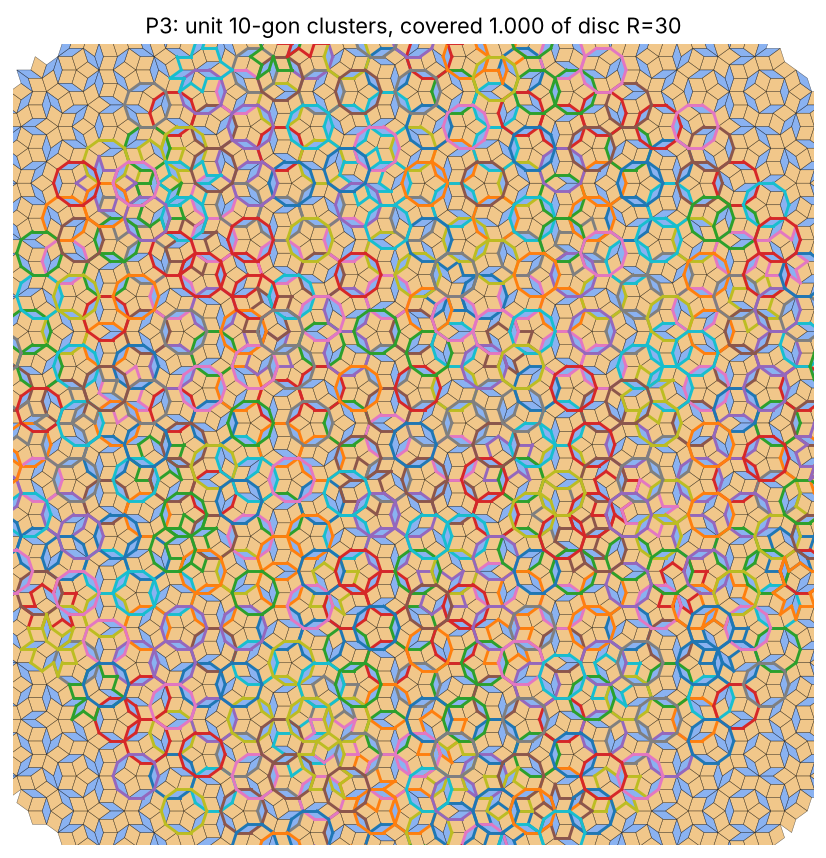
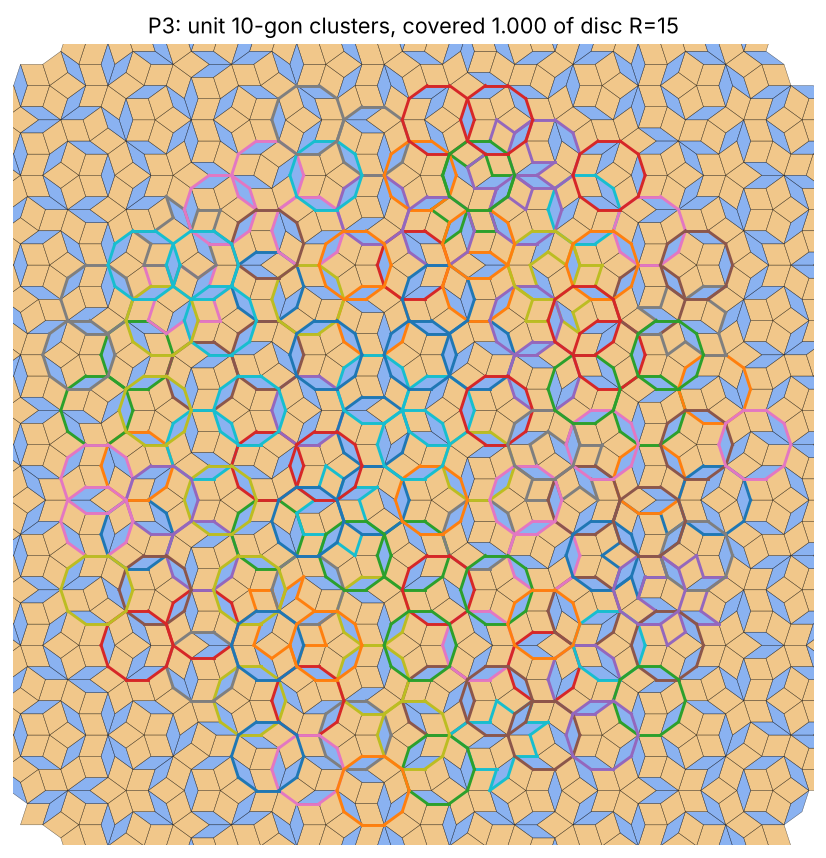
projection-first: 12-fold shield model set, Lemma A checks, partition census, n-gon covering clusters, README/RESULTS
Claude-Session: https://claude.ai/code/session_01RiPcSHvFmRW1QyE8Naq7uY

diff --git a/research/projection-first/RESULTS.md b/research/projection-first/RESULTS.md
@@ -1,0 +1,120 @@
+# Results: projection-first search (1 Nov 2026)
+
+Summary: no OPEN candidate. No shape made of whole tiles partitions any of the three quasicrystals.
+Lemma A says this must happen, and the exhaustive search for k ≤ 8 hits the obstruction at very small radius.
+Overlapping coverings by one cluster do exist (the unit regular 8-, 10- and 12-gon clusters cover AB, Penrose
+and the 12-fold shield tiling completely), but a covering with overlaps is not a monotile tiling.
+
+## 1. Generators and validation
+
+All three are cut-and-project sets with exact integer vertex coordinates (Z⁴, Z⁵/Z(1,1,1,1,1), Z⁴ = Z[ζ₁₂]).
+
+| tiling | field | checks | ratio | measured (R = 20 / 40 / 80 / 160) | exact |
+|---|---|---|---|---|---|
+| Ammann–Beenker (multigrid, Z⁴) | Q(√2) | 0 bad edges, 0 position collisions, all 6,241 vertices (R = 40) inside the octagon window (area 2+2√2) | rhombs/squares | 1.3899 / 1.4111 / 1.4110 / **1.41430** | √2 = 1.41421 (window areas: 2√2 : 2, error 2e-16) |
+| Penrose P3 (pentagrid, Σγ = 0) | Q(√5) | 0 bad edges, all 6,358 vertices (R = 40) inside their index-slice pentagons; index 2,3 : 1,4 = 2.65 (φ² = 2.618) | thick/thin | 1.5800 / 1.6209 / 1.6163 / **1.61839** | φ = 1.61803 (grid-pair densities sin 72° : sin 36°) |
+| 12-fold shield (Z⁴, dodecagon window r = 1) | Q(√3) | 0 crossing edges (R ≤ 40), faces are only unit squares, unit triangles and shields, all 4,852 shields congruent (angles 90,90,90,150,150,150) | square/shield | 1.8021 / 1.7535 / 1.7476 (R=70) / **1.7401** (R=100) | √3 (window areas, error 4e-15) |
+| | | | triangle/shield | 5.4844 / 5.4787 / 5.4809 / **5.4815** | 2+2√3 = 5.4641 |
+| | | | triangle/square | 3.0434 / 3.1244 / 3.1363 / **3.1501** | (6+2√3)/3 = 3.1547 |
+
+The exact column comes from `window_freq.py`: frequency = area of ∩ᵢ (W − uᵢ*) summed over orientations. The
+square–triangle–rhomb windows tried (dodecagon scale scan in `dodecagonal.py scan`) gave crossing edges or
+mixed faces; the clean Z⁴ model set with a regular dodecagon window is Gähler's **shield** tiling (squares,
+triangles, shields). It is the 12-fold case used below. The Stampfli/Socolar variants were not built.
+
+## 2. Lemma A, checked numerically (one line per tiling)
+
+* **AB:** rhombs/squares → √2 (irrational). Every copy of a k-tile cluster has a fixed composition (a, b), so a
+  partition would force a/b = √2. Impossible.
+* **P3:** thick/thin → φ (irrational). Same argument.
+* **Shield (12-fold):** square/shield → √3 and triangle/shield → 2+2√3 (irrational). Same argument.
+
+Companion remark (same argument, applied to splitting instead of merging): in all three tilings the prototile
+areas are rationally independent (1 : 1/√2; φ : 1; 1 : √3/4 : (3+√3)/2 shield). So no single shape S
+dissects every prototile either: a·|S| = 1 and b·|S| = 1/√2 cannot both hold. Any single-shape relation to these
+tilings must therefore be combinatorial (mutual local derivability, as hat ↔ CAP), not a geometric union or
+dissection of tiles.
+
+## 3. Partition search (steps 2–4)
+
+Disc centred at the origin. Interior (centroid ≤ R) is covered exactly once, the buffer ring (R, R+1.5] at most once.
+Shapes are enumerated from all edge-connected clusters in the R = 8 disc and identified up to congruence of their union.
+Since every placement used at R ≤ 4.5 lies inside the R = 8 disc, the list is complete for those radii.
+
+| | k=1 | 2 | 3 | 4 | 5 | 6 | 7 | 8 | total |
+|---|---|---|---|---|---|---|---|---|---|
+| AB shapes tested | 2 | 3 | 12 | 39 | 157 | 585 | 2,334 | 9,040 | **12,172** |
+| P3 shapes tested | 2 | 4 | 16 | 55 | 208 | 759 | 2,823 | 10,467 | **14,334** |
+
+Outcome at R = 3 (the first radius):
+
+| | fails count test | some interior tile uncoverable | SAT says UNSAT | partitions R=3 | partitions R=4.5 |
+|---|---|---|---|---|---|
+| AB | 1,902 | 10,052 | 216 | **2** | **0** |
+| P3 | 3,834 | 10,341 | 159 | **0** | 0 |
+
+The only shapes that partition anything are two AB shapes, and only the R = 3 disc:
+* #1477: square + rhomb hexagon (k = 2, composition 1:1), boundary word 0,1,2,4,6,5;
+* #3554: k = 5 (2 squares + 3 rhombs), boundary word 0,2,1,3,4,5,6,7. Picture: `partition_AB_shape3554_R3.png`.
+
+Both fail at R = 4.5. Both also pass Beauquier–Nivat (they tile the plane by translations), so they are periodic.
+
+**Periodicity census (step 3, k ≤ 6, sufficient tests only):**
+AB: BN 61, Conway 9, not caught 719, non-simple 9. P3: BN 78, Conway 5, not caught 953, non-simple 8.
+The "not caught" shapes are not candidates, because they all fail the partition test.
+
+**Controls (step 4).** Periodic square lattice (`SQ`): all 9 polyominoes with k ≤ 4 partition the discs
+R = 3, 5, 8 and all pass BN, as they should. The single AB square and single AB rhomb (and the single P3
+rhombs) fail the count test immediately, as they must, since the patch contains both tile types. The task's
+expectation that "single square, single rhomb must partition" holds only in a one-tile-type tiling; the SQ run is that control.
+
+**OPEN candidates: none.**
+
+## 4. Covering clusters (overlaps allowed; coordinator's extension)
+
+Copies of one cluster, taken where they occur in the tiling, must cover every tile of the disc RC. Lemma A does not
+apply, because copies may overlap.
+
+**Unit regular n-gon clusters (`covering_polygon.py`).** Covered fraction of the disc, with copies used by a greedy cover:
+
+| tiling | cluster | composition | occurrences (RC=30) | covered RC=15 | covered RC=30 | greedy copies (RC=30) | overlap factor |
+|---|---|---|---|---|---|---|---|
+| P3 | unit decagon (Gummelt's shape) | 5 thick + 5 thin | 984 | 100% | **100%** | 526 | 1.51 |
+| AB | unit octagon | 2 squares + 4 rhombs | 2,383 | 100% | **100%** | 851 | 1.49 |
+| Shield | unit dodecagon | 2 shields + 3 squares + 8 triangles | 1,161 | 100% | **100%** | 490 | 1.79 |
+
+So a single covering cluster exists for silver (AB) and for the √3 tiling, at least in patches of radius 30
+(about 3,500 tiles), just as Gummelt's decagon does for golden. Pictures: `cover_ngon_*.png`.
+
+**Exhaustive small clusters (k ≤ 4), RC = 15:**
+* Undecorated: AB is covered already at **k = 2** (square + rhomb pair, the only class at k=2 that covers). Shield
+  and P3 are covered at **k = 4** (2 classes each). These are trivial coverings with no forcing content.
+* Decorated (a copy must also match its whole vertex-collar): no cluster with k ≤ 4 covers (best AB 44%, Shield 42%,
+  P3 41%). Round vertex-centred clusters C_ρ up to ρ = 7 (about 190 tiles) do not cover either (best AB 99.4%,
+  Shield 87.9%, P3 93.4%). **This test fails its own positive control:** it does not reproduce a Gummelt covering for P3.
+  Matching the full collar is much stricter than Gummelt's decorated overlap rules. So these negative numbers say
+  nothing about AB or the shield tiling.
+
+**Does a covering give a single shape?** Not by itself. A Gummelt-type statement needs, in addition, overlap
+rules (decorations) such that every covering obeying them is the quasicrystal. That is a theorem for the decagon
+(Gummelt 1996; Steinhardt–Jeong 1996). Octagonal analogues for AB are discussed by Ben-Abraham and Gähler
+(Phys. Rev. B 60, 860, 1999; to verify before citing). We did not test forcing. Also, a covering has overlaps,
+so it is not a tiling by one tile.
+
+## 5. Answer to "is there any route from these projections to a single shape?"
+
+1. **Merge whole tiles into one shape S (partition):** closed by Lemma A. Every one of 26,506 shapes with k ≤ 8
+   already fails at R ≤ 4.5.
+2. **Split tiles into one shape (dissection):** closed by the area remark, since the prototile areas are rationally independent.
+3. **Cover with one cluster, overlaps allowed:** open and non-trivial only with decorations and overlap rules.
+   The undecorated unit octagon (AB) and unit dodecagon (shield) cover large patches. Next step: put Ammann-bar or
+   arrow decorations on the octagon and dodecagon, and test with SAT whether the overlap rules force the tiling
+   (does every rule-respecting covering of a large disc reproduce AB / shield?).
+4. **Combinatorial (MLD) route, as for the hat:** a single tile S whose tilings are mutually locally derivable from
+   the quasicrystal, with the irrational carried by orientation frequencies of congruent copies (hat:
+   unreflected/reflected → φ⁴). This is the only route compatible with Lemmas A and B, and it is not addressed by this prototype.
+
+## Compute
+
+About 45 CPU-minutes on one worker (merge search AB 4 min, P3 7 min; covering runs about 30 min; the rest is small).
+Patches: discs up to R = 160 for frequencies, R = 13 for partition SAT, R = 38 for coverings.

diff --git a/research/projection-first/README.md b/research/projection-first/README.md
@@ -8,6 +8,9 @@ partition the patch, or, in the weaker Gummelt sense, cover it with overlaps.
 Results and honest wording: see `RESULTS.md`. Nothing here is called "aperiodic"; the strongest label used
 is "OPEN candidate", and none was found.
 
+The partition route is closed by Lemma A (FORMULATION.md section 13). The undecorated unit 8-, 10- and 12-gon clusters
+cover AB, P3 and the 12-fold shield tiling with overlaps; whether decorated overlap rules force the tiling is the open next step.
+
 ## Files
 
 | file | what it does |
@@ -20,6 +23,7 @@ is "OPEN candidate", and none was found.
 | `periodic.py` | step 3: BN / Conway census of all shapes with k ≤ 6, and classification of every partition survivor. Writes `results/periodic.json`. |
 | `render_partition.py` | PNG of each partition found (`partition_*.png`) and of the shape (`shape_*.png`). |
 | `covering.py` | coordinator's extension: Gummelt-style covering clusters (overlaps allowed), plain and decorated (1-vertex-collar), exhaustive k ≤ 4 and round clusters C_ρ(v). `python3 covering.py AB 30 15 4 1,1.5,...` Writes `results/cover_*.json`, `cover_*.png`. |
+| `covering_polygon.py` | covering by the unit regular n-gon cluster (8 AB, 10 P3 = Gummelt's decagon shape, 12 shield): occurrences that are exact unions of tiles, coverage fraction, greedy copy count. `python3 covering_polygon.py AB 38 30`. Writes `results/cover_ngon_*.json`, `cover_ngon_*.png`. |
 
 ## Definitions used
 
@@ -42,6 +46,7 @@ python3 merge_search.py SQ 4 3,5,8 6
 python3 merge_search.py AB 8 3,4.5,6,8,10,13 8
 python3 merge_search.py P3 8 3,4.5,6,8,10,13 8
 python3 periodic.py results/SQ_k4.json results/AB_k8.json.gz results/P3_k8.json.gz
+for s in AB SH P3; do python3 covering_polygon.py $s 38 30; python3 covering_polygon.py $s 24 15; done
 for s in AB SH P3; do python3 covering.py $s 30 15 4 1,1.5,2,2.5,3,3.5,4,4.5,5,5.5,6,7; done
 ```
 (`merge_search.py` writes plain `.json`; the committed copies are gzipped.)
